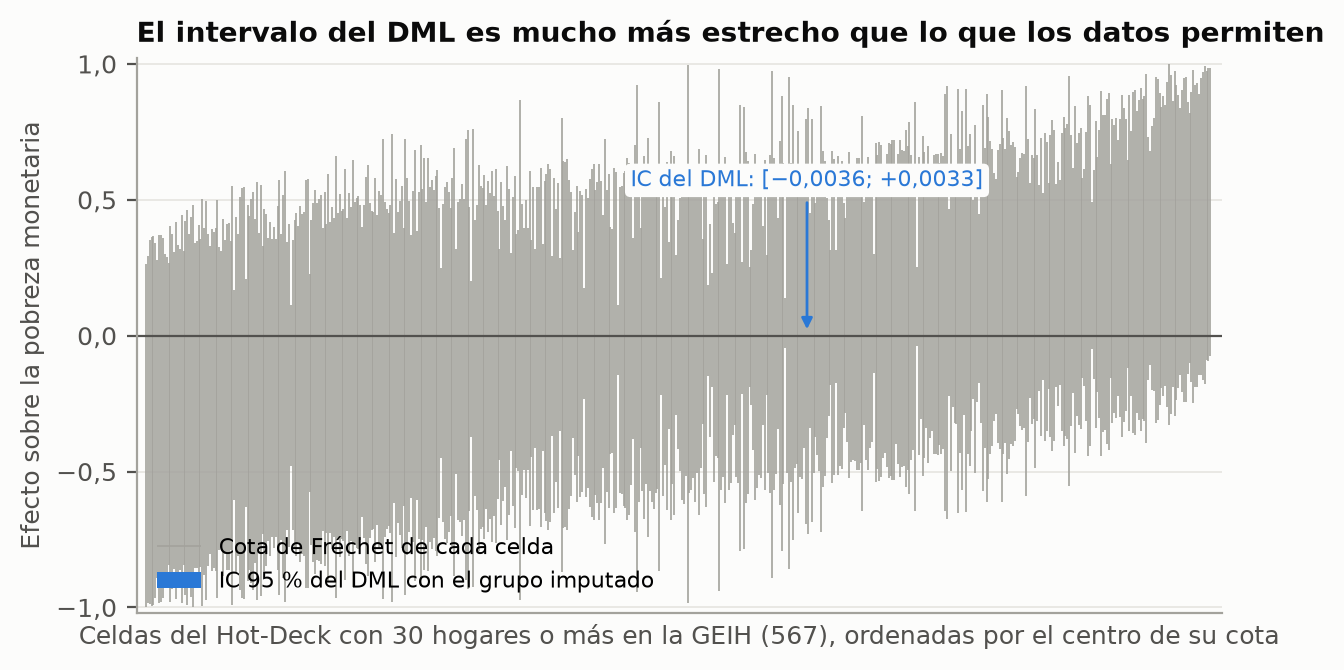
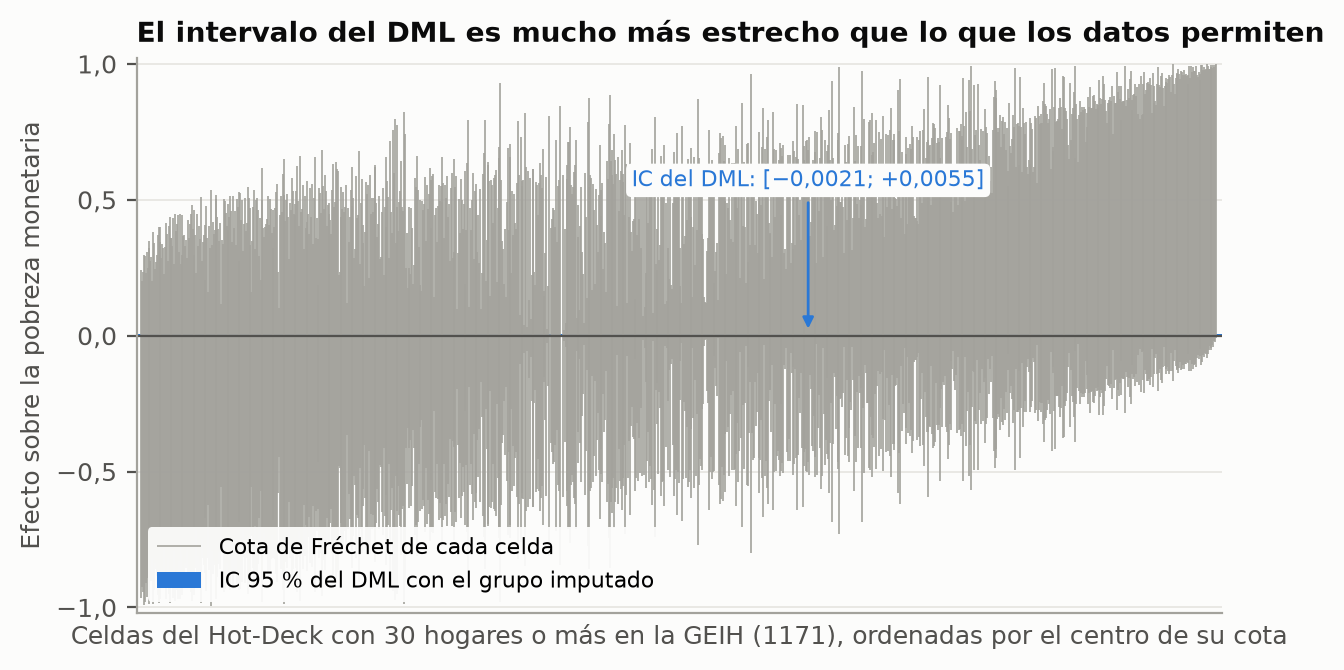
Figuras de la tesis regeneradas con la celda de personas y menores; recta de atenuacion con el sesgo del DML

Changed region(s): [[0.0938, 0.0896, 0.9062, 0.5075], [0.0938, 0.4179, 0.9062, 0.8955], [0.0312, 0.9254, 0.9688, 0.9851]]

diff --git a/src/utils/figuras_tesis.py b/src/utils/figuras_tesis.py
@@ -107,7 +107,7 @@ def cotas_por_celda() -> Path:
     ax.set_yticks([-1, -0.5, 0, 0.5, 1])
     _coma(ax, dec=1)
     ax.set_title("El intervalo del DML es mucho más estrecho que lo que los datos permiten")
-    ax.legend(loc="lower left", fontsize=8)
+    ax.legend(loc="lower left", fontsize=8, frameon=True, facecolor=FONDO, edgecolor="none", framealpha=0.95)
     return _guardar(fig, "fig_cotas_por_celda.png")
 
 
@@ -139,14 +139,20 @@ def atenuacion() -> Path:
     s = pd.read_csv(R / "simulacion_semisintetica_resumen.csv")
     s = s[(s["escenario"] == "confusion_observada") & (s["outcome"] == "log_ingreso")]
     frac = {"hotdeck": 0.0, "vinculo_parcial_50": 0.5, "oraculo": 1.0}
-    tau = s["efecto_verdadero"].mean()
+    tau, reps = s["efecto_verdadero"].mean(), int(s["reps"].max())
+    # Sesgo propio de LinearDML con pocos hogares por celda: su estimación con efecto nulo
+    nulo = pd.read_csv(R / "simulacion_semisintetica_resumen.csv")
+    nulo = nulo[(nulo["escenario"] == "efecto_nulo") & (nulo["outcome"] == "log_ingreso")
+                & (nulo["estimador"] == "linear_dml")]["estimacion"].mean()
     fig, ax = plt.subplots(figsize=(5.6, 3.6))
     ax.plot([0, 1], [0, tau], color=TENUE, linewidth=1.5, linestyle="--", label="L × efecto verdadero")
+    ax.plot([0, 1], [nulo, tau + nulo], color=NARANJA, linewidth=1, linestyle=":", alpha=0.8,
+            label=f"L × efecto + sesgo con efecto nulo ({nulo:+.3f})".replace(".", ",").replace("-", "−"))
     for est, color, nom in [("regresion_efectos_fijos", AZUL, "Regresión con efectos fijos"),
                             ("linear_dml", NARANJA, "LinearDML")]:
         g = s[s["estimador"] == est].assign(L=lambda t: t["vinculo"].map(frac)).sort_values("L")
         ax.errorbar(g["L"], g["estimacion"], yerr=1.96 * g["mcse_sesgo"], color=color, marker="o", markersize=6,
-                    linewidth=2, capsize=0, label=nom)
+                    linewidth=0, elinewidth=2, capsize=0, label=nom)
     ax.axhline(0, color=TINTA_2, linewidth=0.8)
     ax.set_xticks([0, 0.5, 1], ["0\n(Hot-Deck)", "0,5", "1\n(vínculo hogar a hogar)"])
     ax.set_xlabel("Fracción de hogares bien vinculados (L)")
@@ -155,7 +161,7 @@ def atenuacion() -> Path:
     ax.set_title("La estimación cae en proporción al vínculo faltante*")
     ax.legend(loc="upper left", fontsize=8)
     fig.text(0.01, -0.1, "* Resultado simulado: efecto verdadero fijado en la simulación semisintética "
-             f"({tau:.3f}; 432 repeticiones, confusión observada).".replace(".", ",", 1), fontsize=7, color=TINTA_2)
+             f"({tau:.3f}; {reps} repeticiones, confusión observada).".replace(".", ",", 1), fontsize=7, color=TINTA_2)
     return _guardar(fig, "fig_atenuacion.png")
 
 
@@ -401,7 +407,7 @@ def dag_ignorabilidad_hotdeck() -> Path:
     pos = {"U": (0.50, 1.00), "C": (0.00, 0.55), "T": (0.50, 0.55), "Y": (1.00, 0.55),
            "Td": (0.00, 0.08), "Ti": (0.00, -0.40)}
     etiqueta = {"U": "U\nCapacidad de generar\ningresos",
-                "C": "C\nCelda del Hot-Deck\n(departamento, ciclo de vida,\ncuartos, pisos)",
+                "C": "C\nCelda del Hot-Deck\n(departamento, ciclo de vida,\ncuartos, pisos,\npersonas, menores)",
                 "T": "T\nElegibilidad A/B\nverdadera del hogar",
                 "Y": "Y\nPobreza y bienestar\n(GEIH)",
                 "Td": "T$_d$\nGrupo del donante\n(misma celda, Sisbén)",
